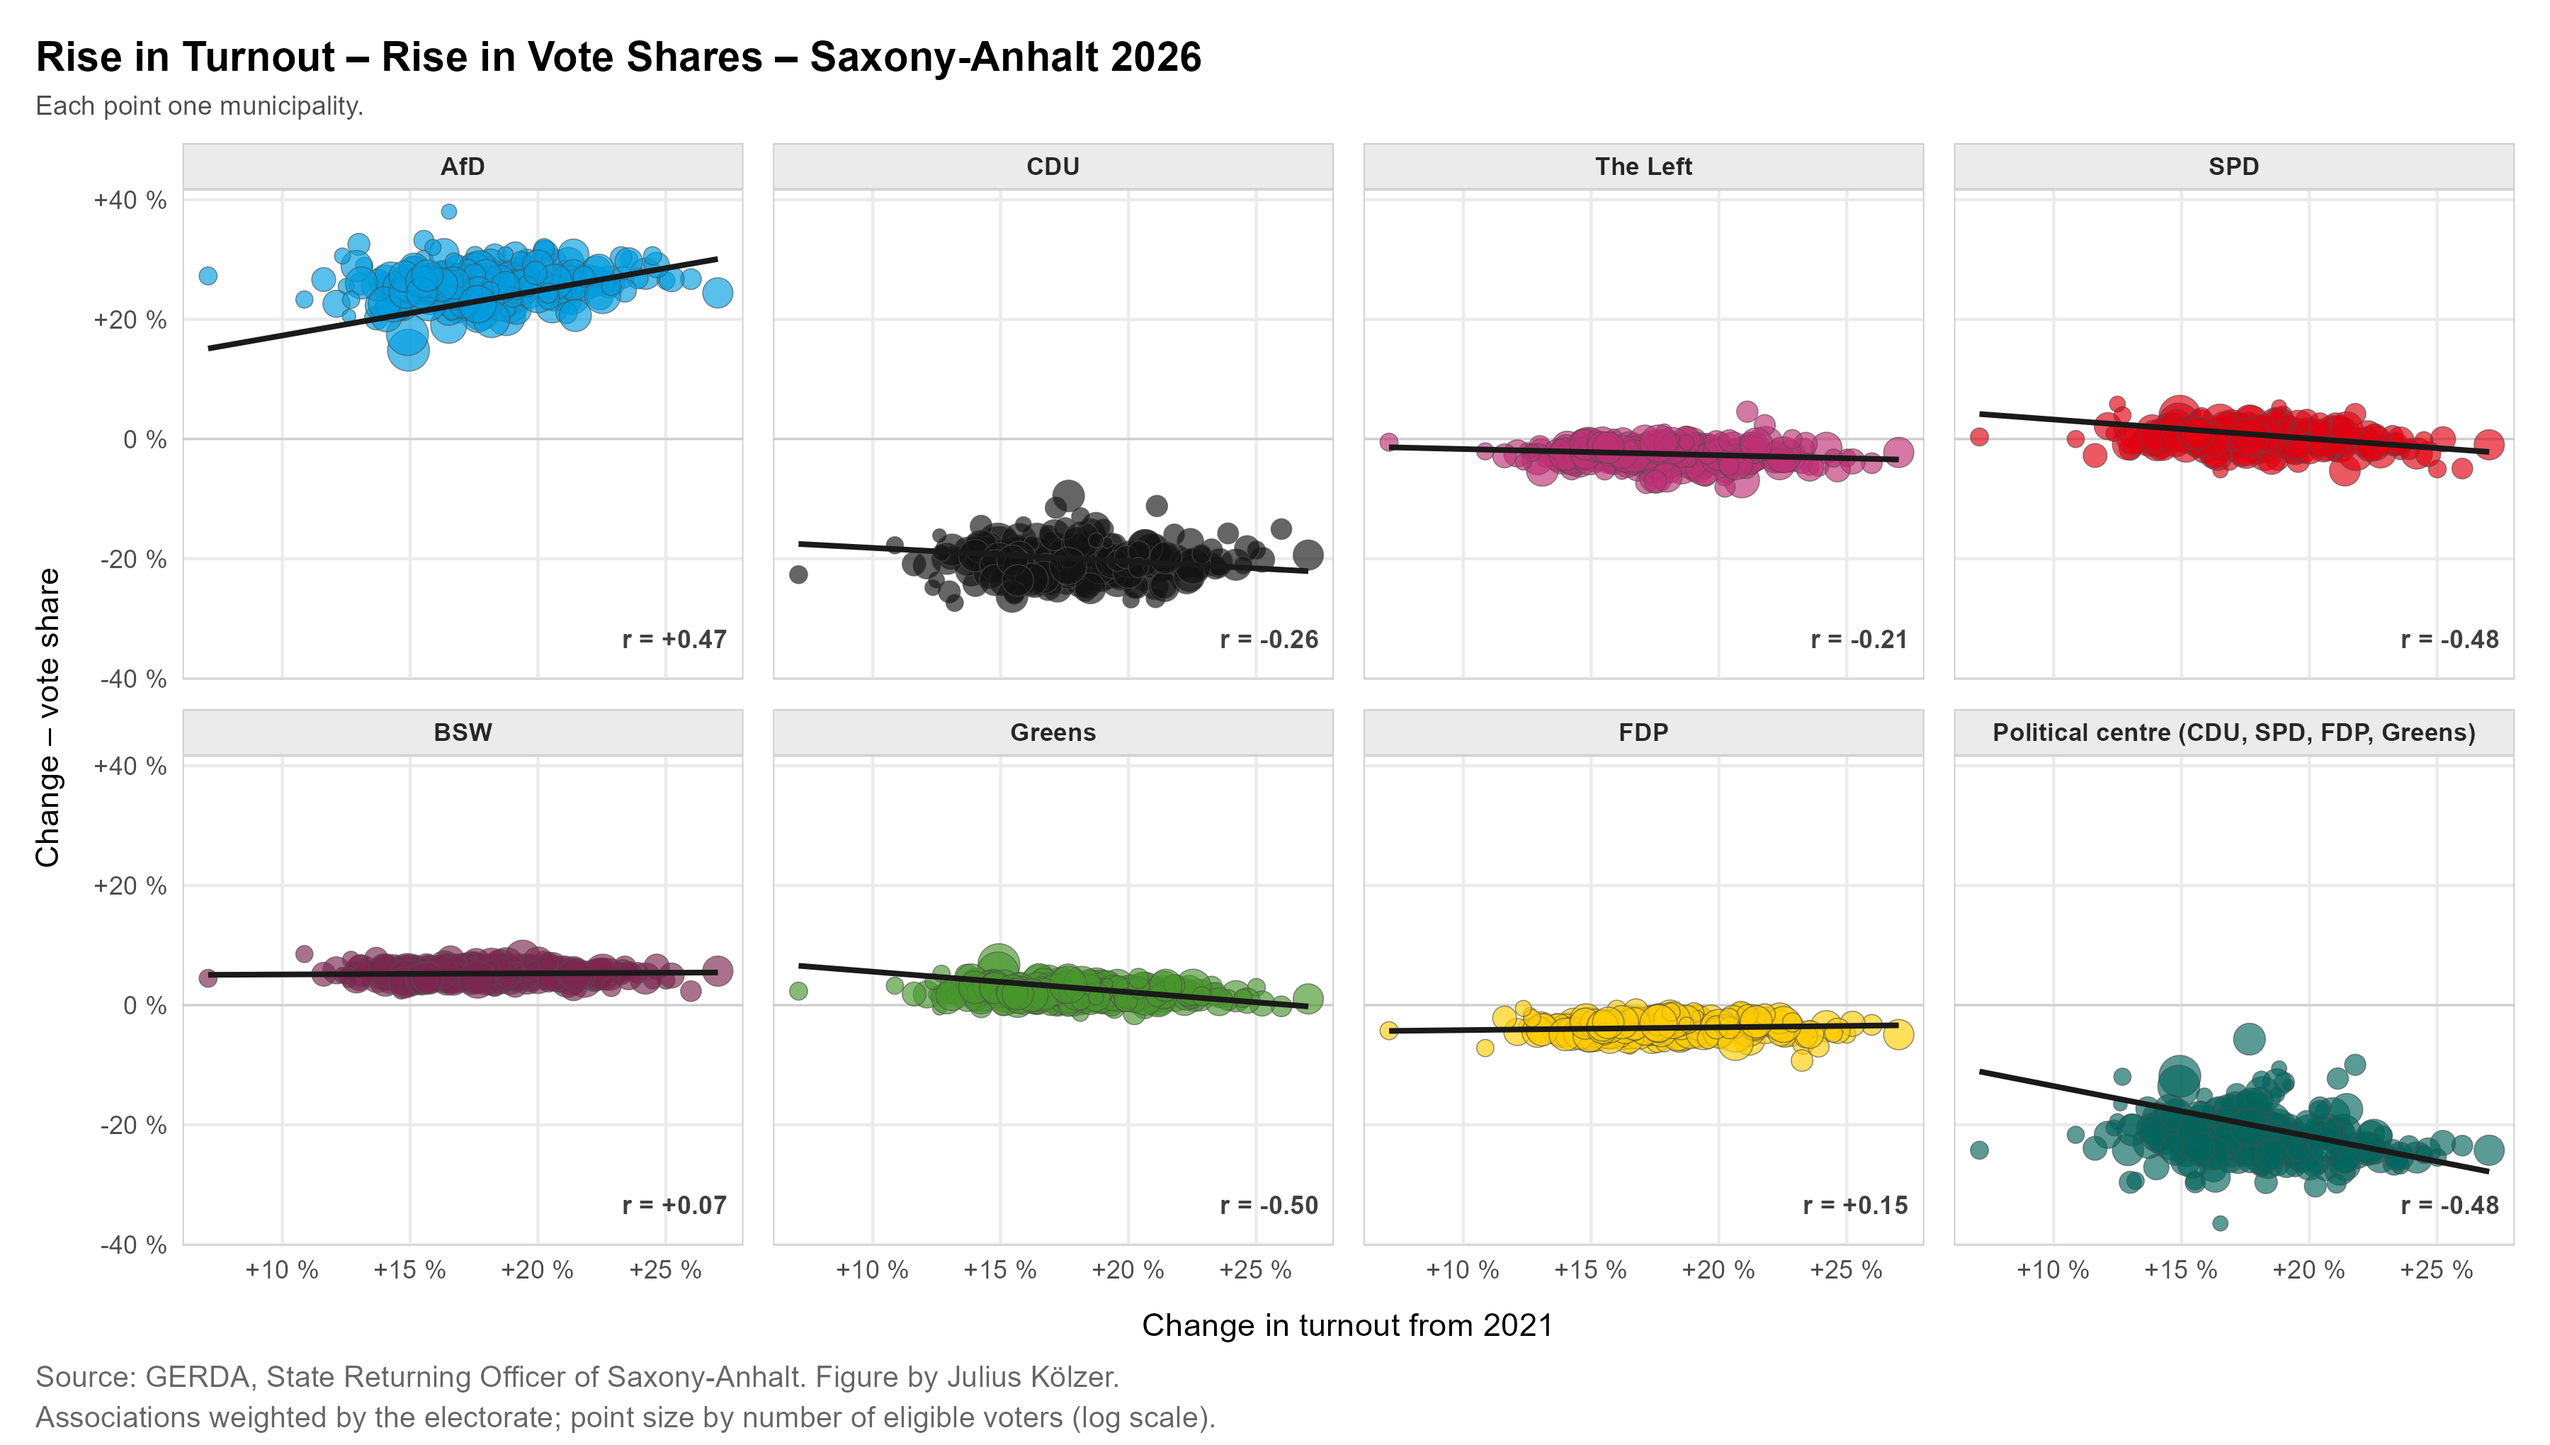
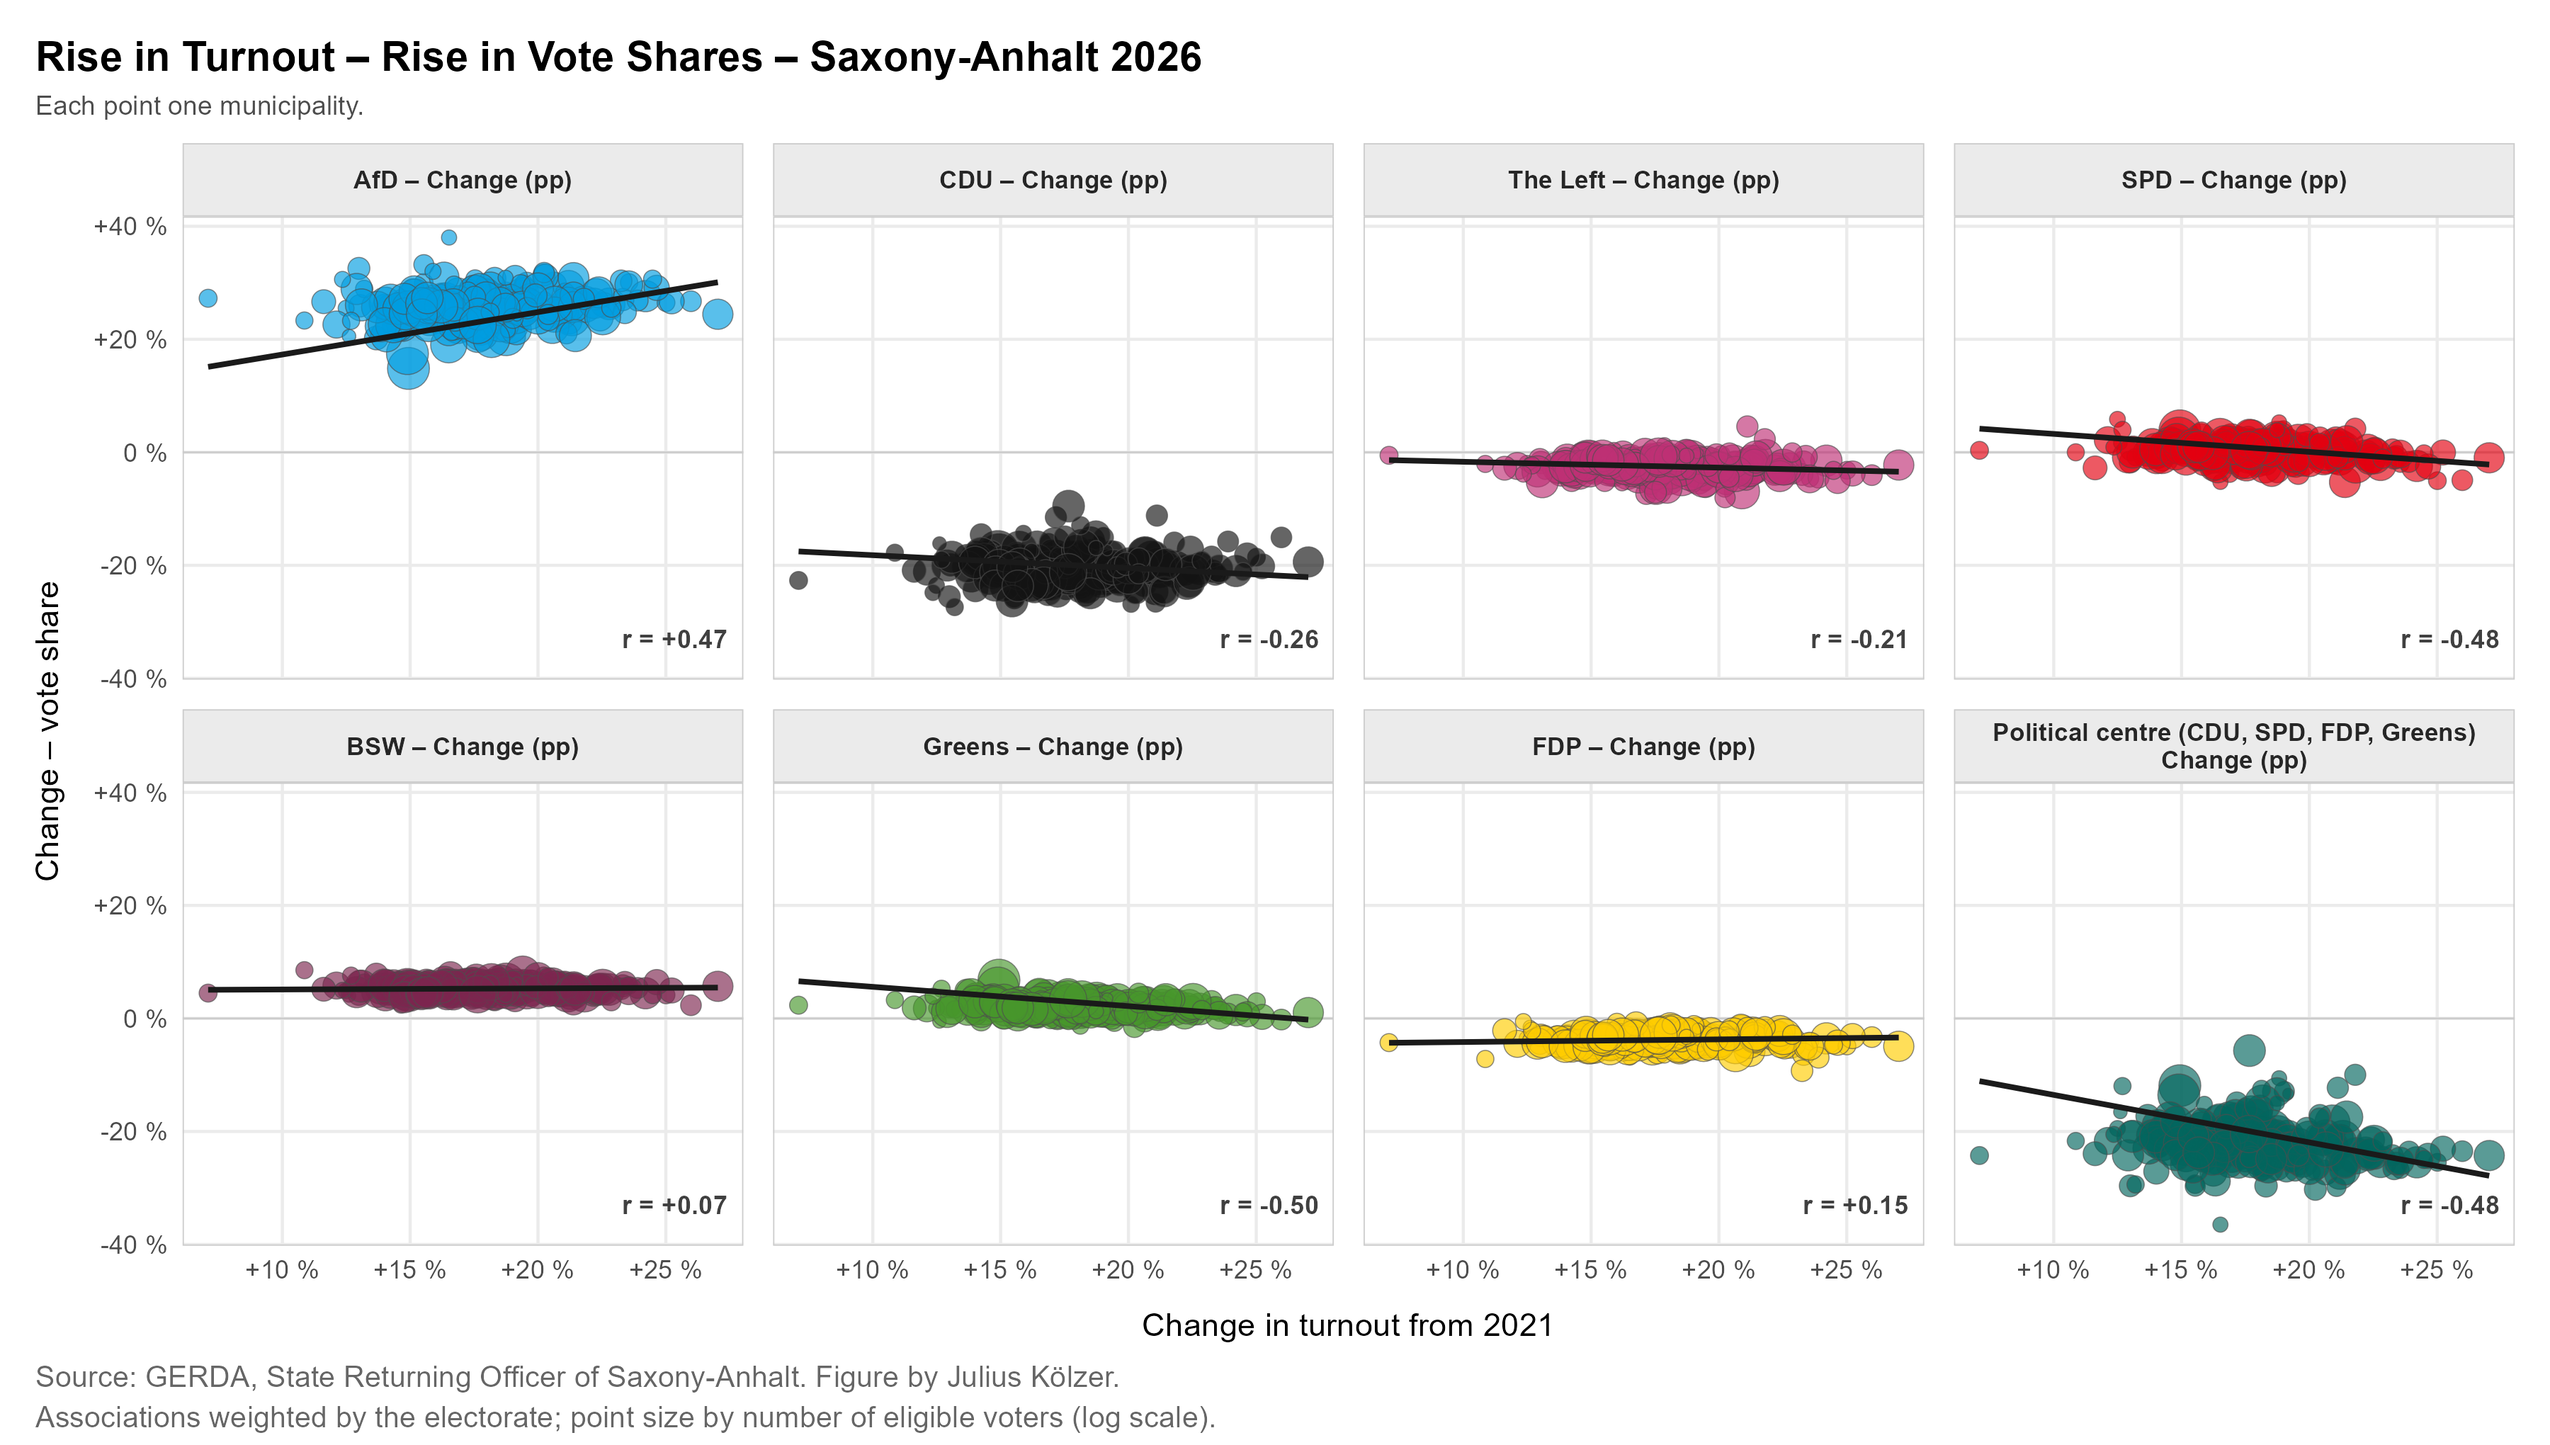
LTW 2026: Bildnachweis vor Byline, Veraenderung in Facet-Headern
- Reihenfolge unter dem Header: erst Fotonachweis, dann Byline
- Parteienscatter: jede Facette traegt "Veraenderung (pp)" / "Change (pp)"
- Anhangsnote nennt die Gewichtung nach Wahlberechtigten explizit
- kompletter Neudurchlauf beider Sprachen (Datenstand unveraendert)

diff --git a/_includes/ltw26_anhang_de.html b/_includes/ltw26_anhang_de.html
@@ -139,5 +139,5 @@
 <tr class="gof"><td>R²</td><td>0,23</td><td>0,21</td></tr>
 </tbody></table>
 </details>
-<p class="ltw-appendix-note">OLS auf Gemeindeebene, gewichtet nach Wahlberechtigten, Standardfehler geclustert auf Kreisebene (in Klammern). Alle Kovariaten z-standardisiert; abhängige Variable in Prozent (Niveau) bzw. Prozentpunkten (Veränderung). * p&lt;0,05, ** p&lt;0,01, *** p&lt;0,001.</p>
+<p class="ltw-appendix-note">OLS auf Gemeindeebene, gewichtet nach der Zahl der Wahlberechtigten, Standardfehler geclustert auf Kreisebene (in Klammern). Alle Kovariaten z-standardisiert; abhängige Variable in Prozent (Niveau) bzw. Prozentpunkten (Veränderung). * p&lt;0,05, ** p&lt;0,01, *** p&lt;0,001.</p>
 </div>

diff --git a/_includes/ltw26_anhang_en.html b/_includes/ltw26_anhang_en.html
@@ -139,5 +139,5 @@
 <tr class="gof"><td>R²</td><td>0.23</td><td>0.21</td></tr>
 </tbody></table>
 </details>
-<p class="ltw-appendix-note">OLS at municipality level, weighted by electorate, standard errors clustered at district level (in parentheses). All covariates z-standardised; dependent variable in per cent (level) or percentage points (change). * p&lt;0.05, ** p&lt;0.01, *** p&lt;0.001.</p>
+<p class="ltw-appendix-note">OLS at municipality level, weighted by the number of eligible voters, standard errors clustered at district level (in parentheses). All covariates z-standardised; dependent variable in per cent (level) or percentage points (change). * p&lt;0.05, ** p&lt;0.01, *** p&lt;0.001.</p>
 </div>

diff --git a/_pages/ltw2026.md b/_pages/ltw2026.md
@@ -14,8 +14,8 @@ published: true
   <h1 class="ltw-hero-title">Landtagswahl Sachsen-Anhalt 2026:<br>Eine Analyse der 218 Gemeinden</h1>
 </figure>
 
-<p class="ltw-byline">von <strong>Julius Kölzer</strong> · 7. September 2026 · <a href="/ltw2026-en/">English version</a></p>
 <p class="ltw-photo-credit">Fotos: <a href="https://www.ccnull.de/foto/afd-flagge-auf-parteitag-geschwenkt-alternative-fur-deutschland-symbolbild/1129246">Marco Verch/ccnull.de</a> (<a href="https://creativecommons.org/licenses/by/2.0/deed.de">CC BY 2.0</a>, zugeschnitten) · <a href="https://pxhere.com/de/photo/1182501">pxhere.com</a> (CC0)</p>
+<p class="ltw-byline">von <strong>Julius Kölzer</strong> · 7. September 2026 · <a href="/ltw2026-en/">English version</a></p>
 
 <p class="ltw-lead">PLATZHALTER LEAD — Zwei bis drei Sätze, die den Befund auf den Punkt bringen: Die AfD ist in allen 218 Gemeinden stärkste Kraft geworden, die Wahlbeteiligung ist um rund 18 Prozentpunkte gestiegen, und beides hängt zusammen. Was die Gemeindedaten darüber verraten, wo diese Stimmen herkommen.</p>
 

diff --git a/_pages/ltw2026_en.md b/_pages/ltw2026_en.md
@@ -14,8 +14,8 @@ published: true
   <h1 class="ltw-hero-title">Saxony-Anhalt State Election 2026:<br>An Analysis of Its 218 Municipalities</h1>
 </figure>
 
-<p class="ltw-byline">by <strong>Julius Kölzer</strong> · 7 September 2026 · <a href="/ltw2026/">Deutsche Fassung</a></p>
 <p class="ltw-photo-credit">Photos: <a href="https://www.ccnull.de/foto/afd-flagge-auf-parteitag-geschwenkt-alternative-fur-deutschland-symbolbild/1129246">Marco Verch/ccnull.de</a> (<a href="https://creativecommons.org/licenses/by/2.0/">CC BY 2.0</a>, cropped) · <a href="https://pxhere.com/de/photo/1182501">pxhere.com</a> (CC0)</p>
+<p class="ltw-byline">by <strong>Julius Kölzer</strong> · 7 September 2026 · <a href="/ltw2026/">Deutsche Fassung</a></p>
 
 <p class="ltw-lead">PLACEHOLDER LEAD — Two or three sentences stating the core finding: the AfD became the strongest party in all 218 municipalities, turnout rose by roughly 18 percentage points, and the two are connected. What the municipal data reveal about where those votes came from.</p>
 
